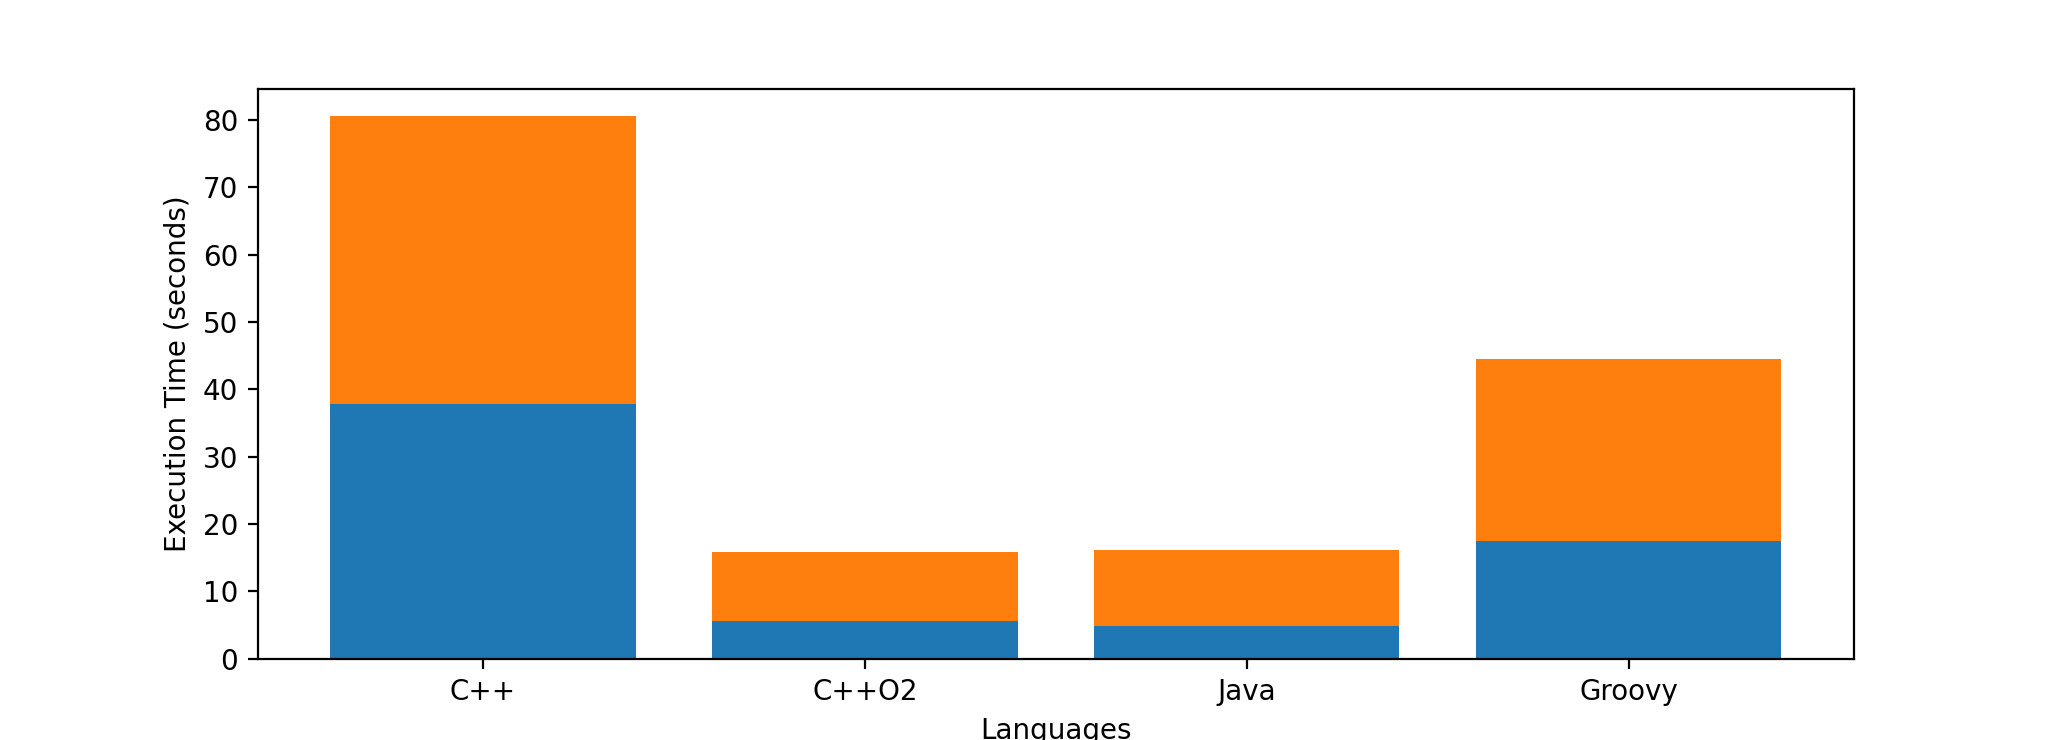
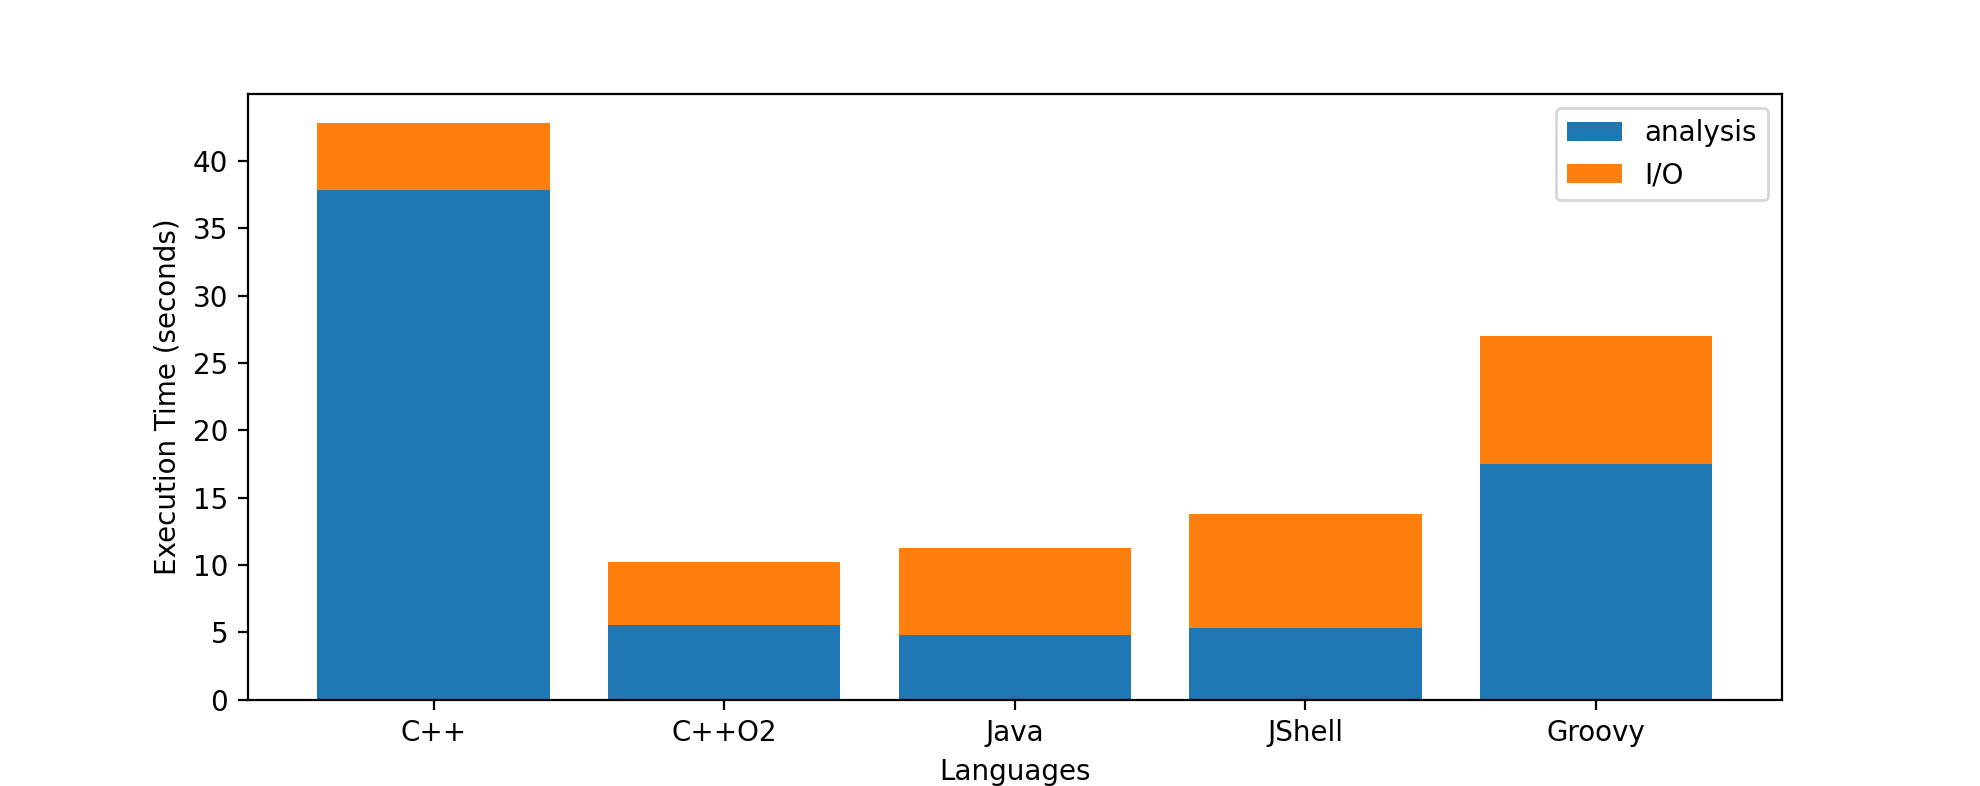
added a new script testing analysis in Jshell

diff --git a/results/anaResults.py b/results/anaResults.py
@@ -1,12 +1,14 @@
 import numpy as np
 import matplotlib.pyplot as plt
 
-xaxis = ["C++","C++O2","Java","Groovy"]
-data2 = [42.8, 10.22, 11.29, 27.0]
-data1 = [37.8, 5.54, 4.78, 17.5]
+xaxis = ["C++","C++O2","Java","JShell","Groovy"]
+#data2 = [42.8, 10.22, 11.29, 27.0]
+data2 = [5, 4.68, 6.50, 8.42, 9.5]
+data1 = [37.8, 5.54, 4.78, 5.33, 17.5]
 #plt.ylim(0.0, 50)
 plt.xlabel("Languages")
 plt.ylabel("Execution Time (seconds)")
-plt.bar(xaxis, data1)
-plt.bar(xaxis, data2, bottom=data1)
+plt.bar(xaxis, data1, label='analysis')
+plt.bar(xaxis, data2, bottom=data1, label='I/O')
+plt.legend(loc="upper right")
 plt.show()
